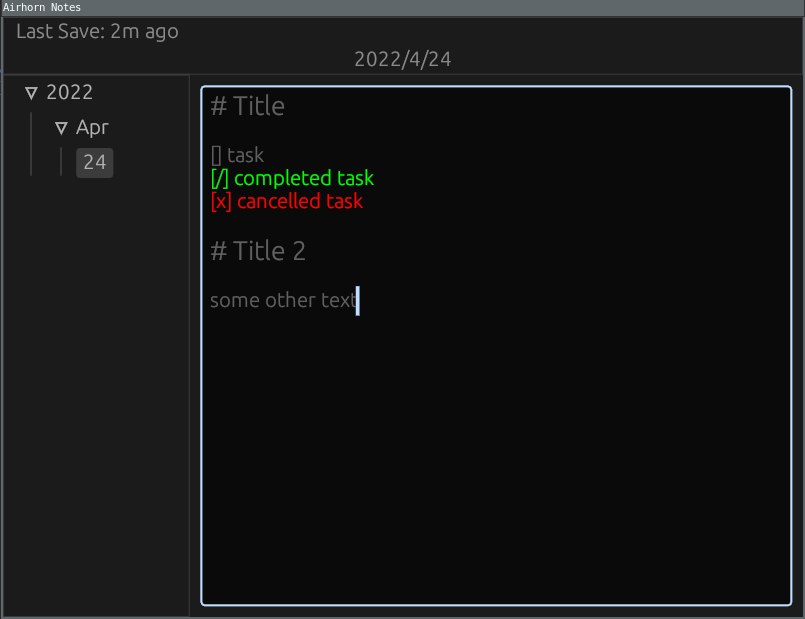
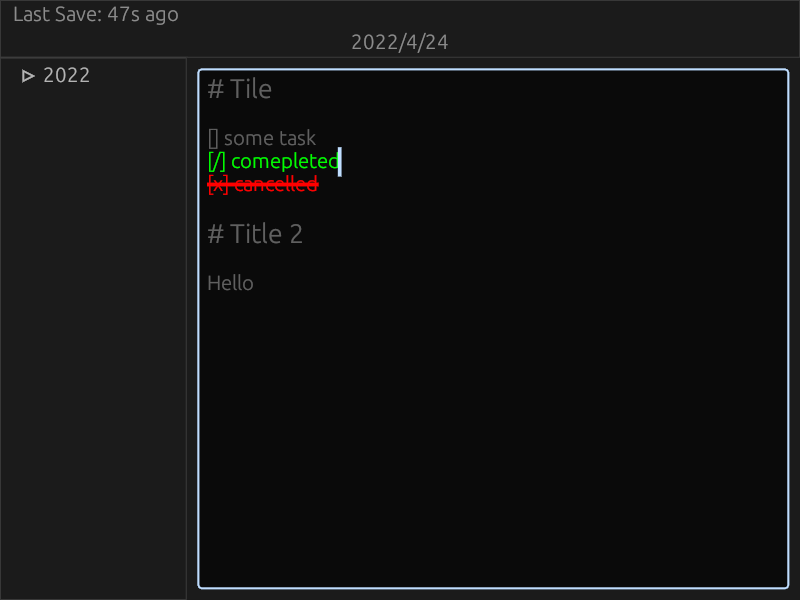
cancelled tasks have strike through

Changed region(s): [[0.0, 0.0, 1.0, 1.0]]

diff --git a/src/style.rs b/src/style.rs
@@ -1,4 +1,4 @@
-use eframe::{epaint::{text::{LayoutJob, LayoutSection}, Color32, FontFamily, FontId}, egui::TextFormat};
+use eframe::{epaint::{text::{LayoutJob, LayoutSection}, Color32, FontFamily, FontId, Stroke}, egui::TextFormat};
 
 // https://stackoverflow.com/questions/40455997/iterate-over-lines-in-a-string-including-the-newline-characters
 pub struct LinesWithEndings<'a> {
@@ -57,6 +57,7 @@ pub fn highlight(text: &str) -> LayoutJob {
         }
         else if trimmed.starts_with("[x]") {
             format.color = Color32::RED;
+            format.strikethrough = Stroke::new(2.0, Color32::RED)
         }
         else if trimmed.starts_with("#") {
             format.font_id = FontId::new(18.0, FontFamily::Proportional);
